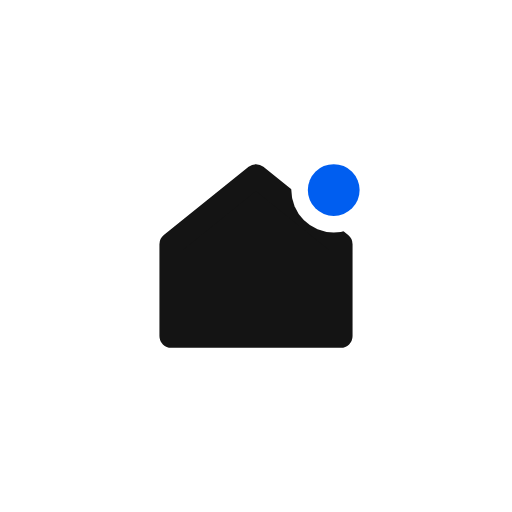
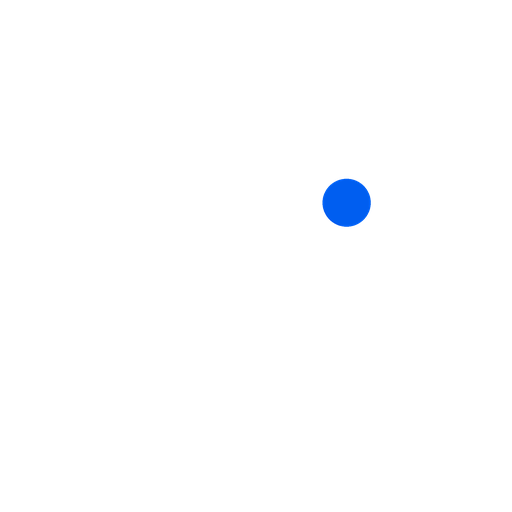
Trendr 앱 아이콘·스토어 그래픽과 등록 문구 초안 추가
Claude-Session: https://claude.ai/code/session_01STqSFafmKdx6JbeCF4kEeU

Changed region(s): [[0.3125, 0.3125, 0.75, 0.6875]]

diff --git a/store/listing.md b/store/listing.md
@@ -1,0 +1,35 @@
+# 스토어 등록 문구 (초안)
+
+이미지: `store/icon-512.png`(구글 플레이 아이콘), `store/feature-graphic.png`(그래픽 이미지 1024×500). 스크린샷은 테스트 빌드에서 찍기.
+개인정보처리방침 URL: https://trends.edik-choi.workers.dev/privacy
+카테고리: 뉴스 및 잡지 / News
+
+## English
+- Title (30): Trendr: Trending Searches Now
+- Short description (80): See what the world is searching right now. Top 3 trends, 3 times a day.
+- Full description:
+
+Trendr shows the searches rising fastest on Google right now, country by country, with the news behind each one.
+
+• Live trending searches for the US, UK, Korea, Japan, Germany, France, Spain, Brazil, India, Canada and your own country
+• The headline that explains why each search is trending
+• Daily alerts at 8 am, noon and 7 pm your time with the top 3 trends
+• Tap any keyword to search it instantly
+• No sign-up. Delete your data anytime in Settings
+
+Data comes from Google Trends “Trending now”. Search volumes are approximate. Trendr is not affiliated with Google.
+
+## 한국어
+- 제목 (30): Trendr - 실시간 인기 검색어
+- 간단한 설명 (80): 지금 사람들이 가장 많이 찾는 검색어를 나라별로. 하루 3번 상위 3개를 알려드려요.
+- 자세한 설명:
+
+Trendr는 지금 구글에서 검색이 급증하는 키워드를 나라별로, 왜 뜨는지 알려주는 뉴스와 함께 보여줘요.
+
+• 한국, 미국, 일본, 영국, 독일, 프랑스, 스페인, 브라질, 인도, 캐나다의 실시간 인기 검색어
+• 검색어마다 이유를 알 수 있는 관련 뉴스
+• 매일 아침 8시, 낮 12시, 저녁 7시에 상위 3개 요약 알림
+• 키워드를 누르면 바로 검색
+• 회원가입 없음. 설정에서 언제든 내 정보 삭제
+
+데이터는 구글 트렌드 ‘지금 뜨는 검색어’ 기준이며 검색량은 대략적인 값이에요. Trendr는 Google과 관련이 없어요.

diff --git a/.claude/rules/project.md b/.claude/rules/project.md
@@ -24,7 +24,7 @@
 청약시그널과 같음: `git push -f origin main:build-preview`(테스트 APK), `main:build-production`(스토어). JS만 바뀌면 `npm run update:production`. 네이티브가 바뀌면 `version` 올리고 새 빌드.
 
 ## 출시 전 할 일 (app/app.json)
-- 앱 이름 `Trendr`(스토어 등록명은 "Trendr: Trending Searches Now" 식으로 부제 포함). 아이콘·스플래시(`app/assets`는 청약시그널 것을 임시로 복사)
+- 앱 이름 `Trendr`(스토어 등록명은 "Trendr: Trending Searches Now" 식으로 부제 포함). 아이콘 원본 스크립트는 레포 밖(디자인 바꾸면 다시 만들기). 스토어 문구·그래픽은 `store/`
 - 패키지명 `com.trendr.app` (스토어 출시 후 변경 불가)
 - `extra.apiUrl`: 배포된 Worker 주소 (지금 https://trends.edik-choi.workers.dev 가정)
 - 애드몹 앱 ID(`plugins`의 androidAppId/iosAppId, 지금 Google 샘플)와 `extra.admob` 광고 단위 ID. 비어 있으면 테스트 광고

diff --git a/TODO.md b/TODO.md
@@ -2,11 +2,11 @@
 
 ## 해야할 일
 
-- [ ] 앱 아이콘 만들기
 - [ ] Worker 배포, 애드몹·EAS·Firebase 설정 후 테스트 빌드
 
 ## 완료한 일
 
+- [x] 앱 아이콘·스토어 그래픽, 스토어 등록 문구 초안(영·한)
 - [x] 앱 이름 Trendr, 패키지명 com.trendr.app으로 변경
 - [x] 프로젝트 설명을 CLAUDE.md에서 .claude/rules/project.md로 분리
 - [x] 첫 버전 만들기 (나라별 인기 검색어 목록, 하루 3번 요약 푸시, 7개 언어, 애드몹)
